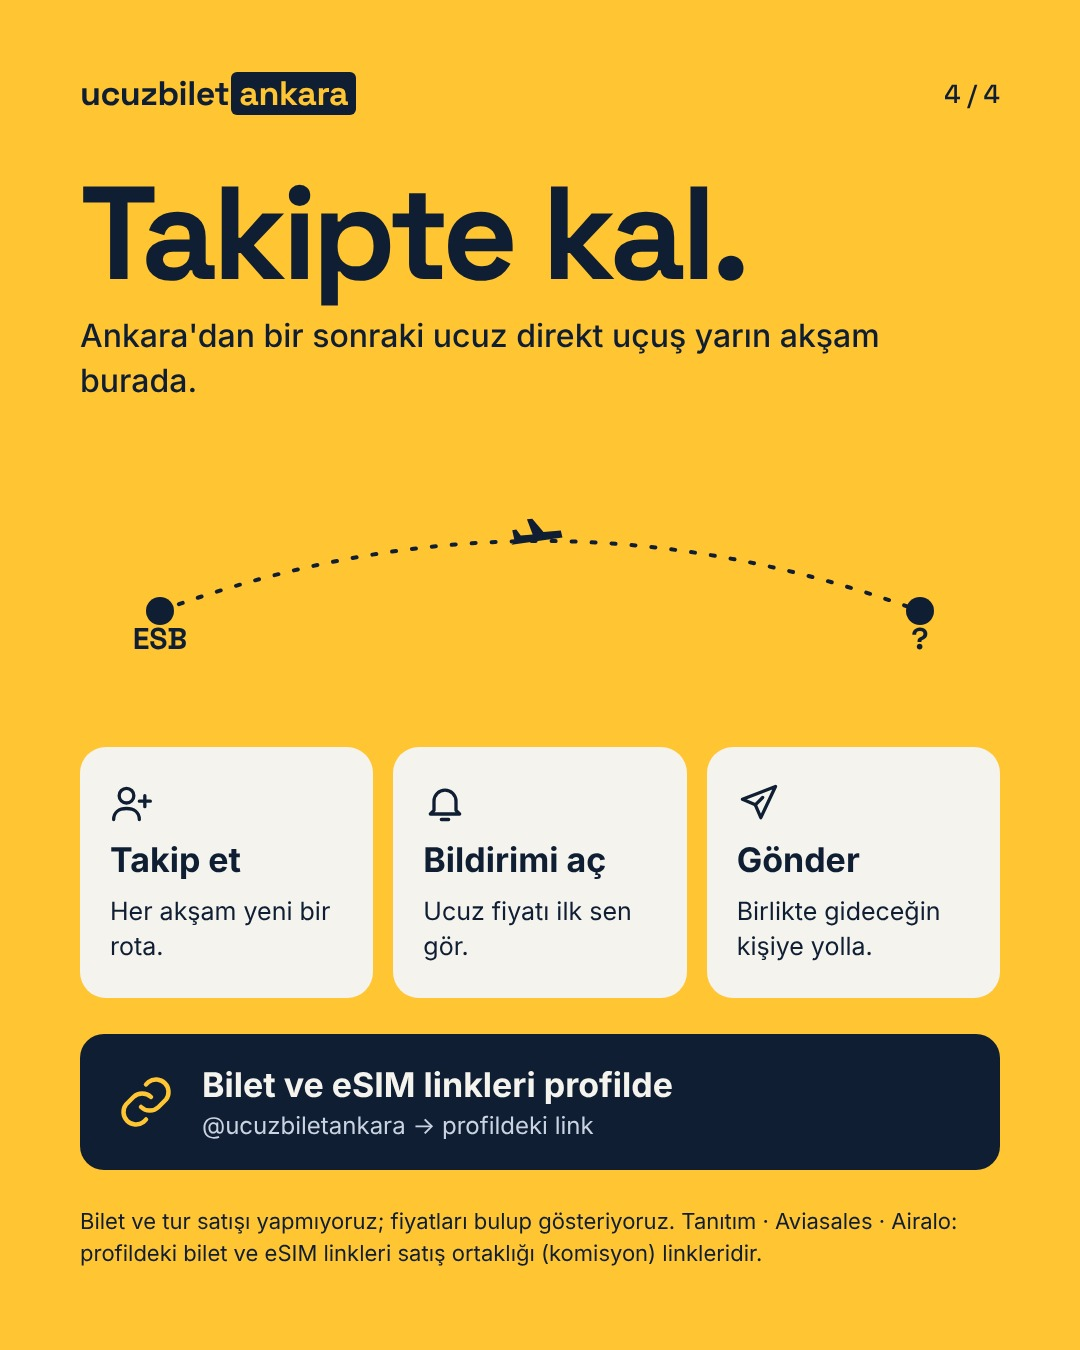
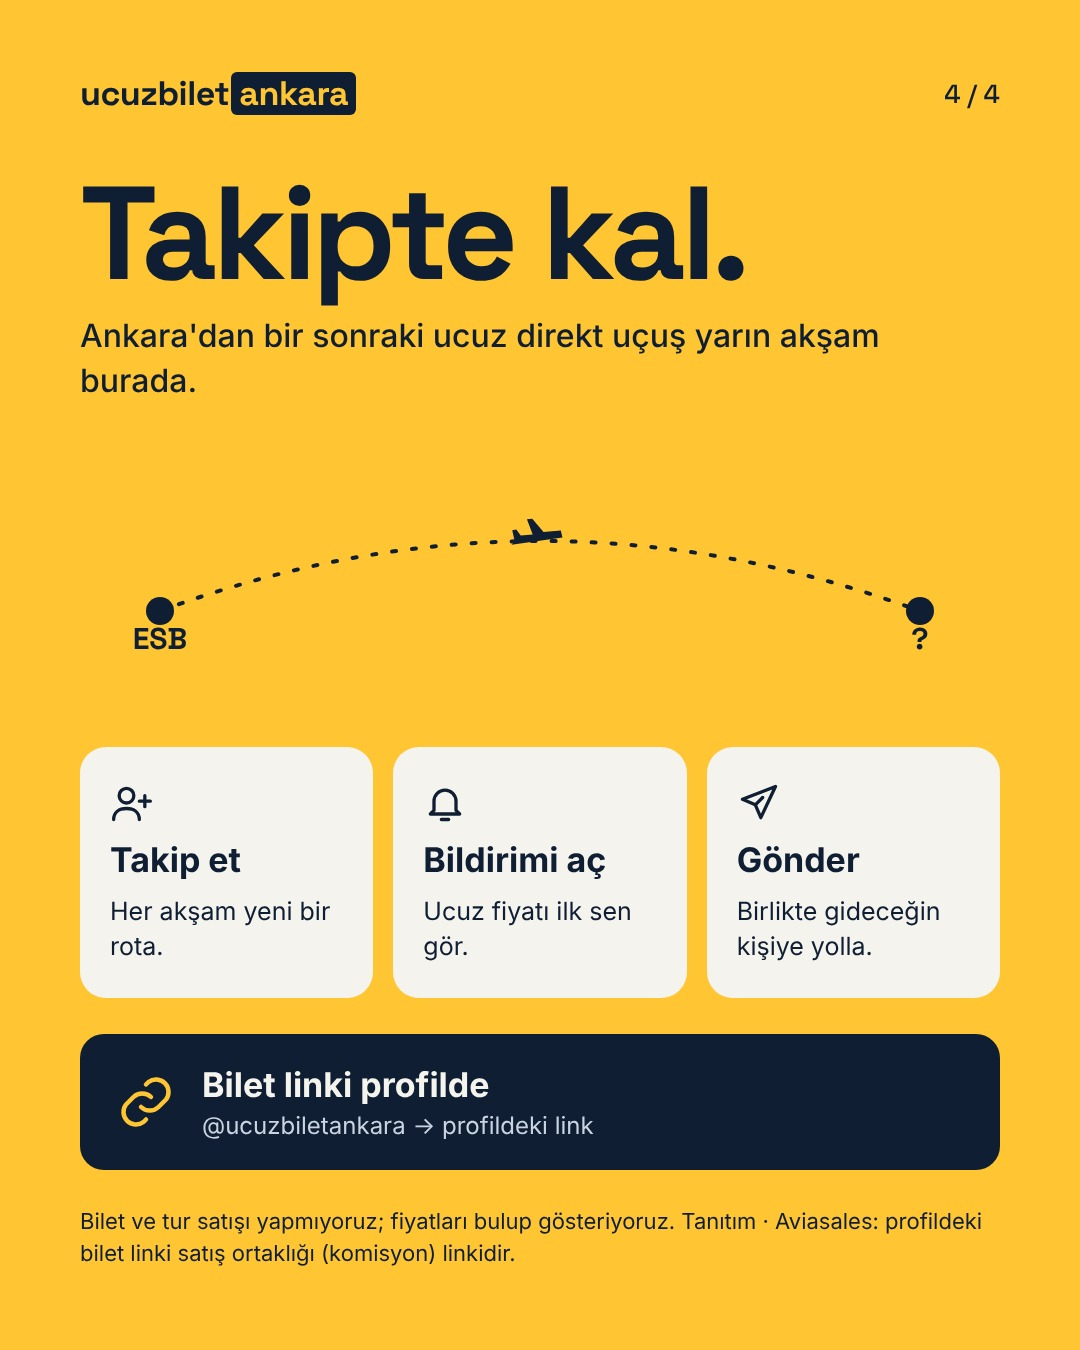
Kapakta tanıtım etiketi kaldırıldı (kullanıcı kararı); sabit postlar eSIM/Airalo'suz ve etiketsiz yeniden üretildi (paylaşılmadı) [skip ci]
Claude-Session: https://claude.ai/code/session_01QHPVhgAktnCL9JzJ4sZobf

Changed region(s): [[0.0917, 0.9022, 0.7028, 0.9333], [0.2444, 0.7778, 0.6111, 0.84], [0.825, 0.9022, 0.9167, 0.9333]]

diff --git a/tools/sabit_postlar.py b/tools/sabit_postlar.py
@@ -4,10 +4,10 @@ from playwright.sync_api import sync_playwright
 
 OUT = Path(__file__).parent / "out"
 OUT.mkdir(exist_ok=True)
-SG = (Path(__file__).parent / "gf/ofl/spacegrotesk/SpaceGrotesk[wght].ttf").as_uri()
-DISC = "Tanıtım · Aviasales · Airalo"
+SG = Path("/home/claude/sabit/gf/ofl/spacegrotesk/SpaceGrotesk[wght].ttf").as_uri()
+DISC = "Tanıtım · Aviasales"
 DISC_LINE = ("Bilet ve tur satışı yapmıyoruz; fiyatları bulup gösteriyoruz. "
-             "Tanıtım · Aviasales · Airalo: profildeki bilet ve eSIM linkleri satış ortaklığı (komisyon) linkleridir.")
+             "Tanıtım · Aviasales: profildeki bilet linki satış ortaklığı (komisyon) linkidir.")
 
 CSS = f"""
 @font-face{{font-family:'Space Grotesk';src:url('{SG}') format('truetype');font-weight:300 700}}
@@ -106,7 +106,7 @@ def cover(n, kicker, title, sub, visual, size=150):
   <div style='display:flex;flex-direction:column;gap:16px'>
     {top(1)}
     <div style='display:flex;justify-content:space-between;align-items:center'>
-      <div class='kicker'>{kicker}</div><div class='badge'>{DISC}</div>
+      <div class='kicker'>{kicker}</div>
     </div>
   </div>
   <div class='sg' style='font-weight:700;font-size:{size}px;line-height:.95;letter-spacing:-6px'>{t}</div>
@@ -161,7 +161,7 @@ def closing(title, sub, ctas):
   <div style='display:grid;grid-template-columns:repeat(3,1fr);gap:20px'>{cards}</div>
   <div style='background:var(--navy);color:var(--cream);border-radius:24px;padding:30px 36px;display:flex;align-items:center;gap:26px'>
     <svg width='60' height='60' viewBox='0 0 24 24' fill='none' stroke='#FFC533' stroke-width='1.8' stroke-linecap='round' stroke-linejoin='round' style='flex:none'><path d='M10 14a5 5 0 007 0l3-3a5 5 0 00-7-7l-1 1M14 10a5 5 0 00-7 0l-3 3a5 5 0 007 7l1-1'/></svg>
-    <div><div style='font-weight:700;font-size:34px'>Bilet ve eSIM linkleri profilde</div>
+    <div><div style='font-weight:700;font-size:34px'>Bilet linki profilde</div>
     <div style='font-size:24px;color:var(--soft);margin-top:6px'>@ucuzbiletankara → profildeki link</div></div></div>
   <div style='font-size:22px;line-height:1.45'>{DISC_LINE}</div>
 </div>""", light=True)
@@ -182,7 +182,7 @@ POSTS = {
             ("Ne yenir?", "Mutlaka denemen gereken yerel lezzetler."),
             ("Nerede yenir?", "Köklü ve hâlâ açık mekânlar."),
             ("Nerede kalınır?", "Konaklamaya uygun semtler ve neden."),
-            ("Ulaşım + ipuçları", "Havalimanından şehre, vize, para ve eSIM."),
+            ("Ulaşım + ipuçları", "Havalimanından şehre, vize, para ve hava durumu."),
         ], "Postu kaydet: gittiğinde rehberin cebinde olsun."),
         closing("Takipte kal.", "Ankara'dan bir sonraki ucuz direkt uçuş yarın akşam burada.", [
             ("follow", "Takip et", "Her akşam yeni bir rota."),
@@ -217,7 +217,7 @@ POSTS = {
         ]),
         list_slide(3, "BİLETTEN SONRA", "Fiyat değiştiyse ve sonrası", [
             ("04", "Fiyat değiştiyse", "Fiyat, paylaşım anındaki en düşük fiyat. Bir gün önceye ya da sonraya da bak."),
-            ("05", "eSIM'i hallet", "Profildeki eSIM linkinden al, yola çıkmadan telefonuna kur; iner inmez internetin olsun."),
+            ("05", "Vizeyi unutma", "Vize gereken yerlerde randevuyu erken al; pasaportunun geçerlilik süresine bak."),
             ("06", "Rehberi kaydet", "Gezilecek yerler, yemek ve ulaşım bilgisi gittiğinde cebinde olsun."),
         ]),
         closing("İyi yolculuklar.", "Soru ya da öneri için DM'den yazabilirsin.", [
